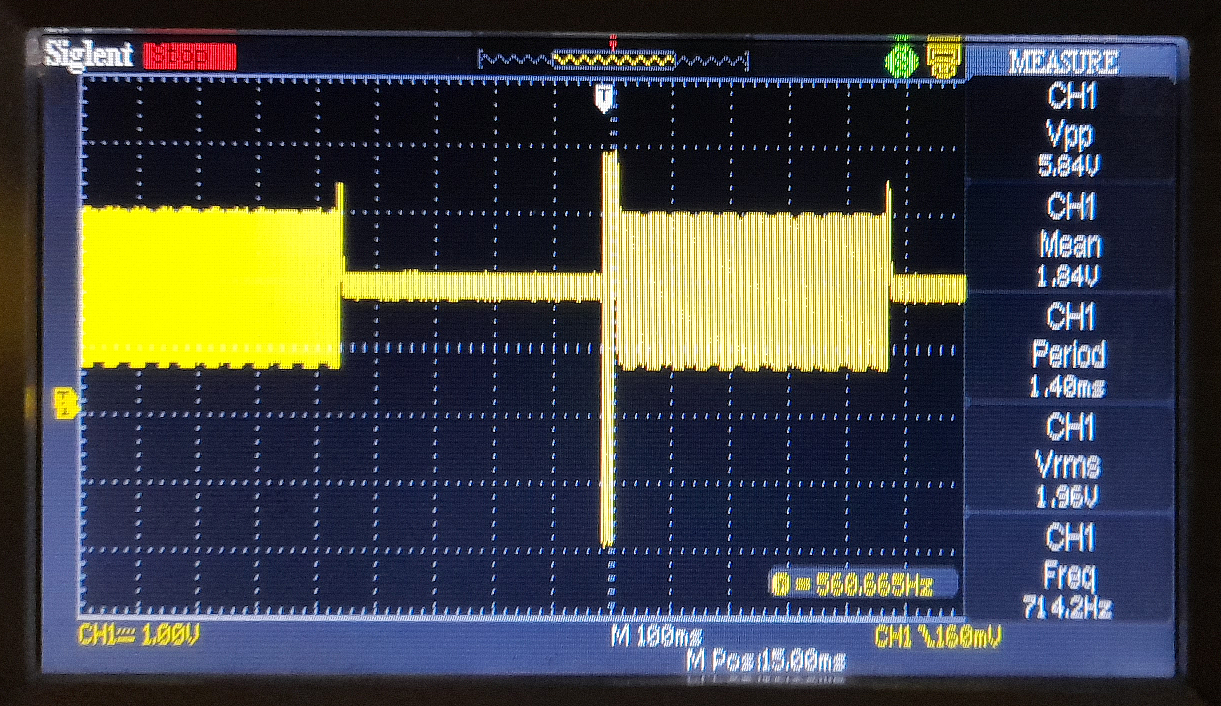
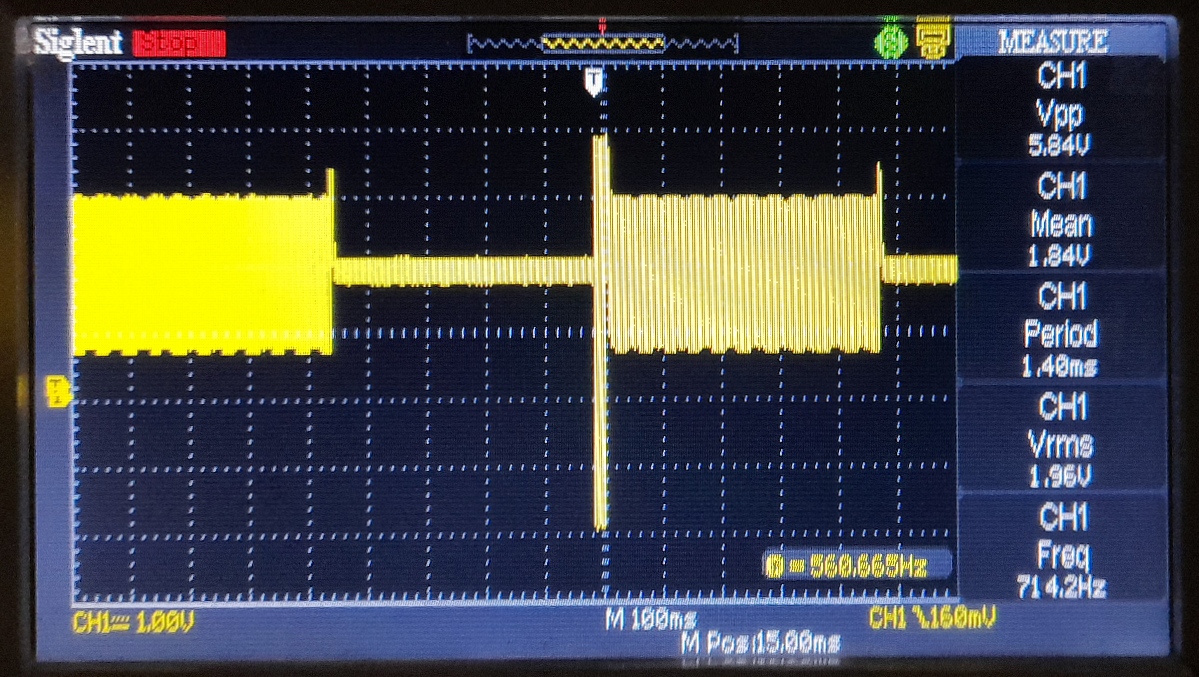
Added orig firmware mode scanning image

diff --git a/README.md b/README.md
@@ -65,7 +65,7 @@
 
 <img src="firmware/docs/HPF_mod.png" alt="image" style="width:600px;height:auto;">
 
-## Original firmware mode switching
+## Original firmware mode scanning
 
 - The auther only scans all modes if need be (makes sense) ..
 
